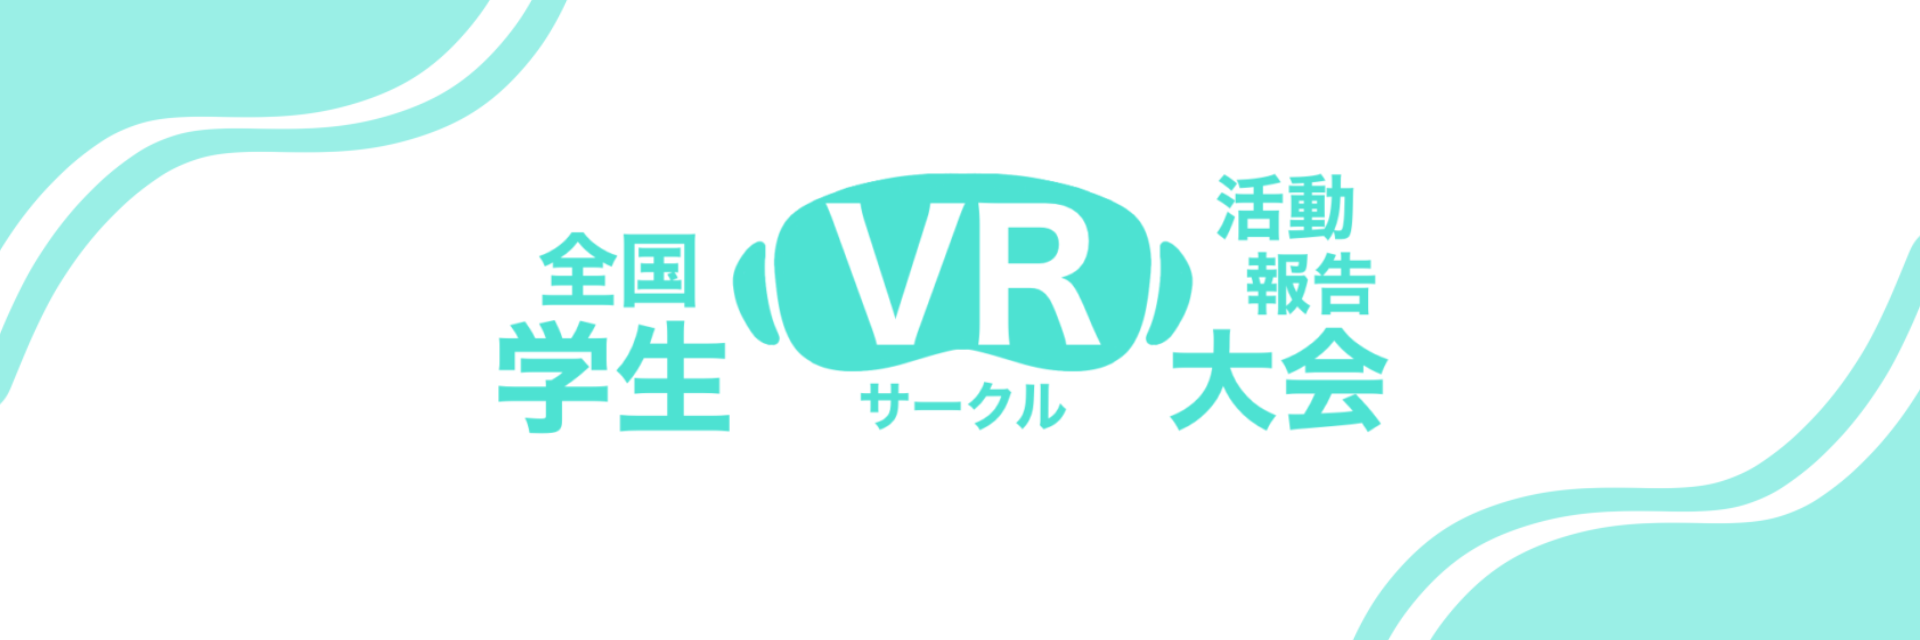
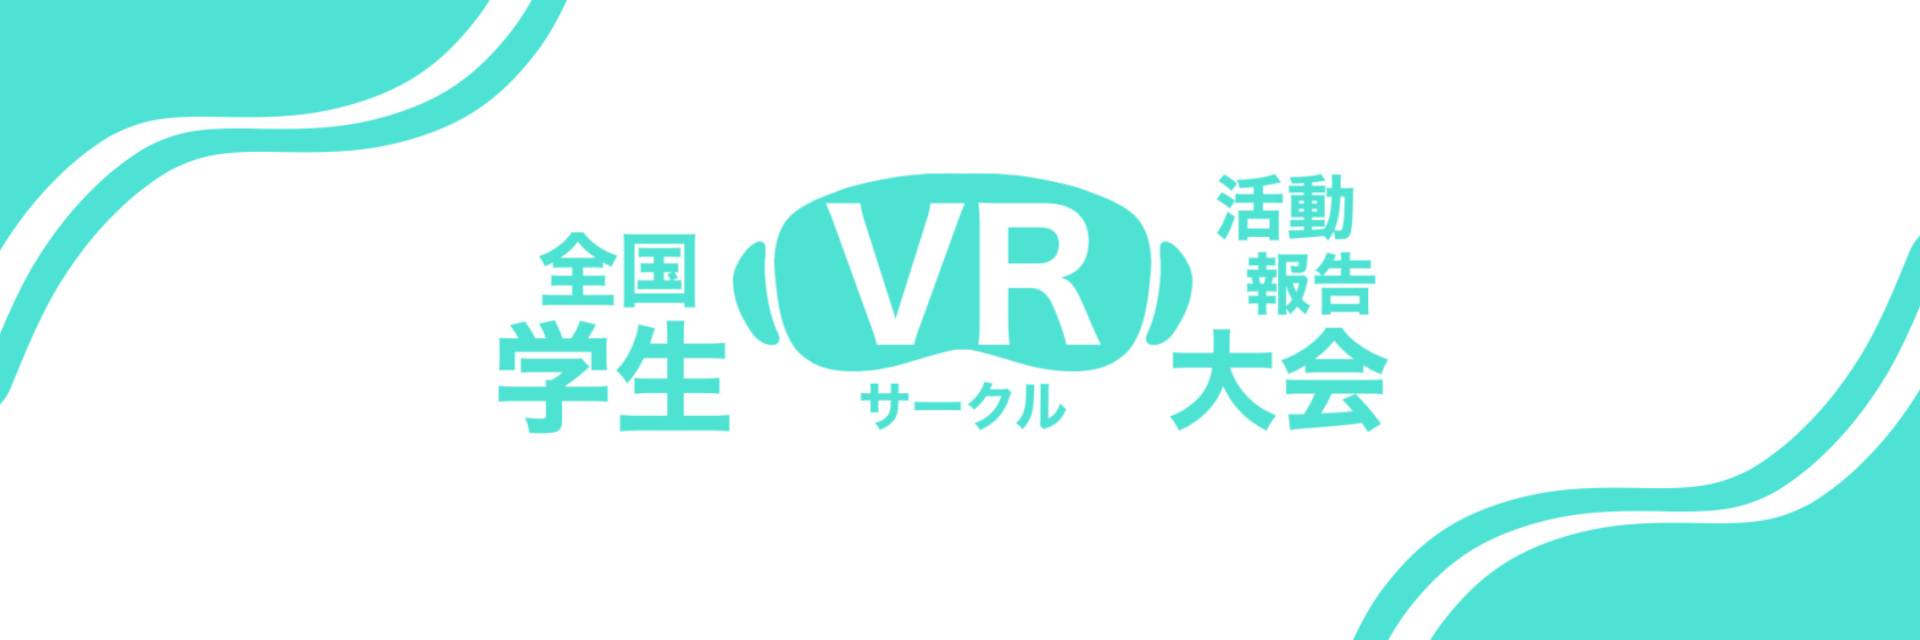
ビジュアル微調整

Changed region(s): [[0.6875, 0.375, 1.0, 1.0], [0.0, 0.0, 0.3125, 0.625]]

diff --git a/stylesheet.css b/stylesheet.css
@@ -4,13 +4,13 @@
 
 .bg-grad-skyblue{
   background: rgb(255,255,255);
-  background: linear-gradient(0deg, rgb(255, 255, 255) 0%, #9aefe6 10%, #9aefe6 90%, rgba(255, 255, 255, 0) 100%);
+  background: linear-gradient(0deg, rgb(255, 255, 255) 0%, #4DE2D3 10%, #4DE2D3 90%, rgba(255, 255, 255, 0) 100%);
   color: #2e2e2e;
 }
 
 .bg-grad-blue{
   background: rgb(255,255,255);
-  background: linear-gradient(0deg, rgba(255, 255, 255, 0) 0%, #e6ffff 10%, #e6ffff 90%, rgba(255, 255, 255, 0) 100%);
+  background: linear-gradient(0deg, rgba(255, 255, 255, 0) 0%, #b3fff6 10%, #b3fff6 90%, rgba(255, 255, 255, 0) 100%);
   color: #000000;
 }
 
